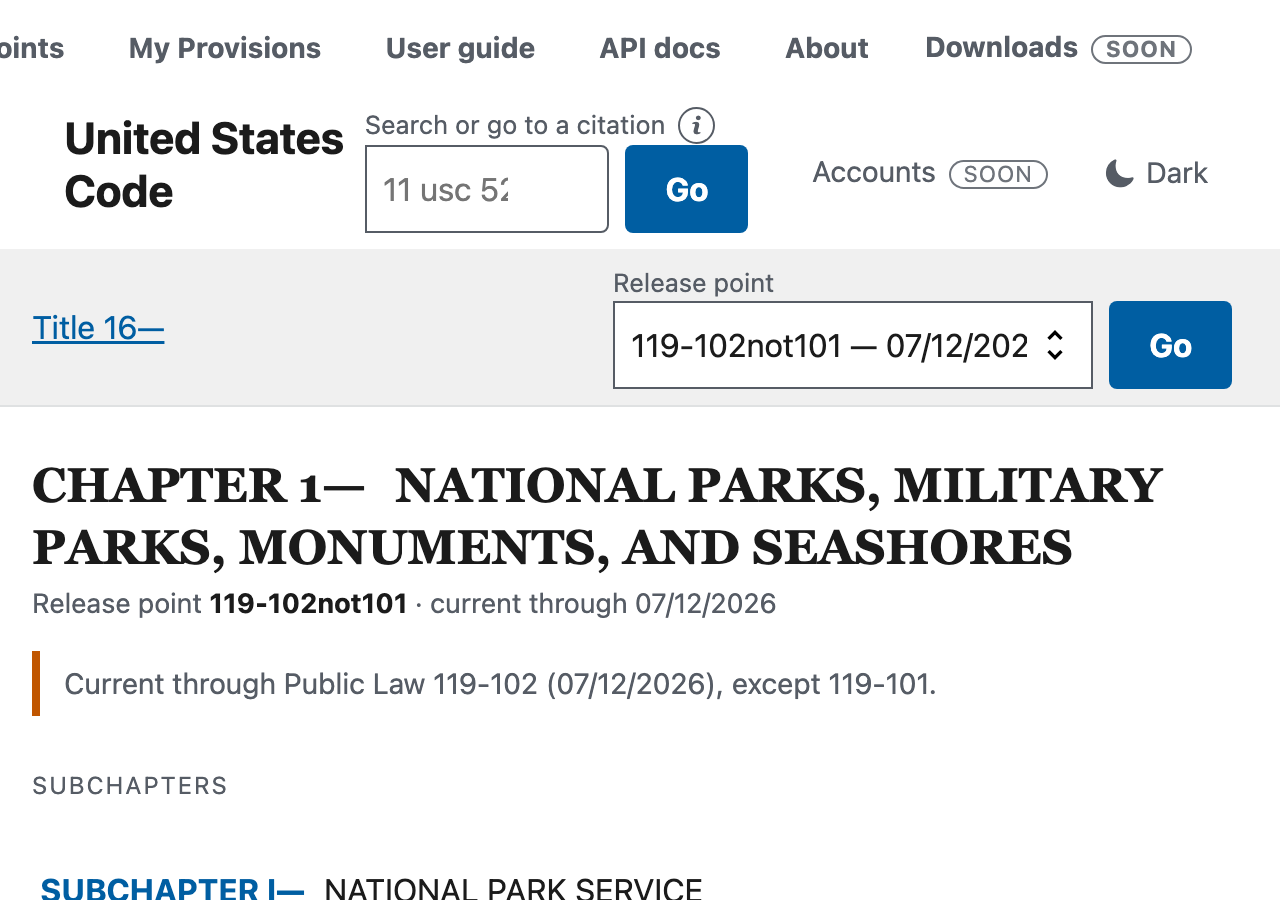
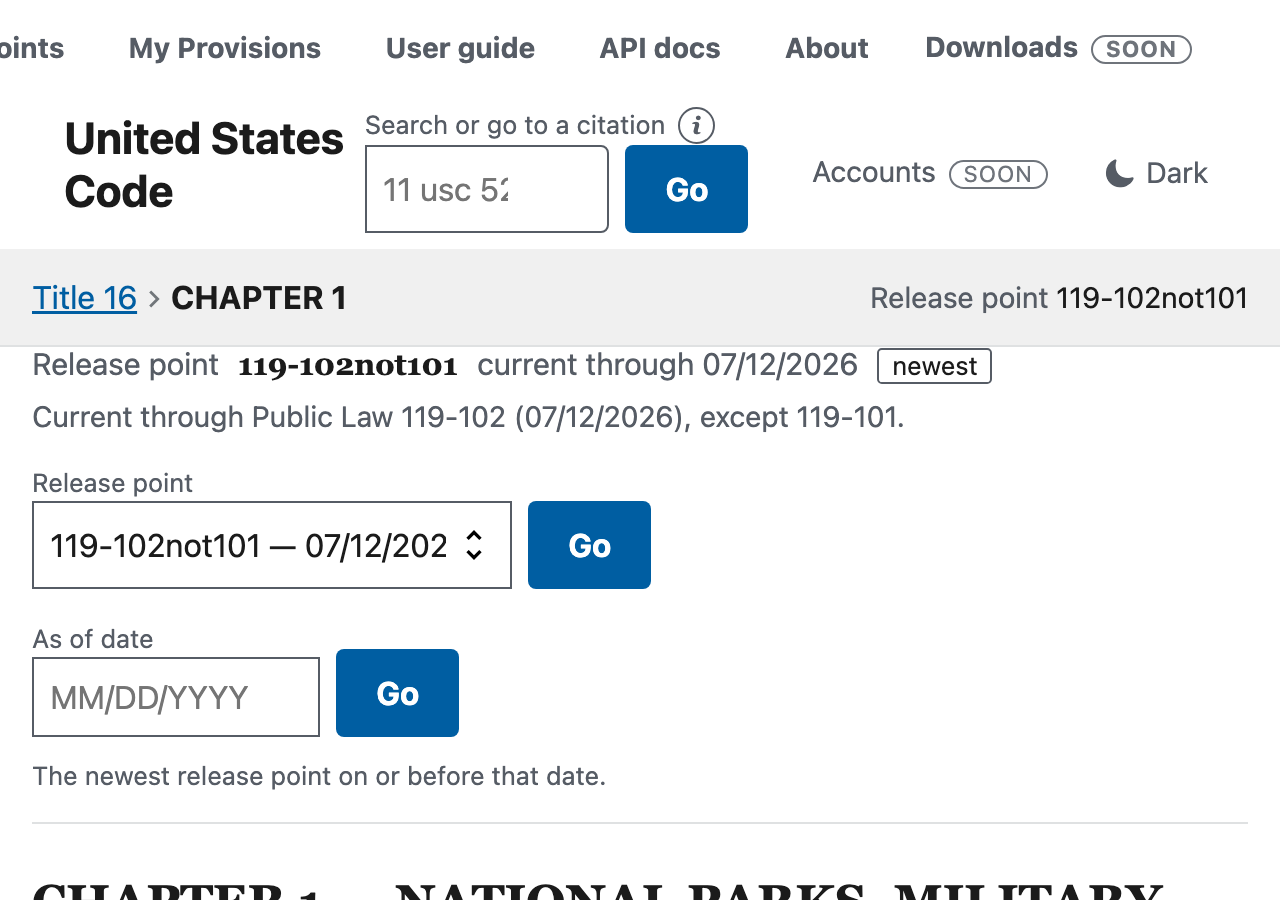
Give the guide a verb for a select, and re-point the release scenarios
`fill` cannot drive a `<select>`, and "switching release point keeps the
provision you were reading" is exactly the claim that has to be walkable now
that it is the fix rather than the bug. `select: { selector, value }` joins the
scenario vocabulary — validated like `fill`, narrated in `describeStep`, and run
through `selectOption`.

Three scenarios named `.doc-meta__rp` and `.caveat`, which were `Provenance`'s
classes. They name the release band's now.

`sticky.spec.ts` asserted `.picker` was pinned at desktop. It is not any more,
deliberately, so the assertion is on `.contextbar__rp` — the answer to "as of
when" rather than the means of changing it — and a new pair of tests holds the
headroom the move bought, so a future addition that eats it has to raise
`--sticky-h` on purpose.

One real bug, found by the scan rather than by me: the unlinked breadcrumb item
was the first text in that bar never set from a token, so it took USWDS's own
breadcrumb ink and failed `color-contrast` in dark theme on every reader page.
`docs/verification/a11y.json` is back to 8 route/rule pairs over 1,780 nodes,
which is the ADR-0039 baseline.

Changed region(s): [[0.0, 0.3111, 0.9688, 0.9022], [0.0, 0.9644, 0.9062, 1.0], [0.4688, 0.3111, 0.625, 0.3422]]

diff --git a/frontend/tests/e2e/sticky.spec.ts b/frontend/tests/e2e/sticky.spec.ts
@@ -170,7 +170,9 @@ test.describe("what sticks at each width", () => {
     await expect(page.locator(BAR)).toBeInViewport();
   });
 
-  test("a desktop keeps the navbar, the breadcrumbs and the bar", async ({ page }) => {
+  test("a desktop keeps the navbar, the breadcrumbs, the release point and the bar", async ({
+    page,
+  }) => {
     await page.setViewportSize({ width: 1280, height: 900 });
     await page.goto(SECTION);
     await page.evaluate(() => window.scrollTo(0, 2000));
@@ -178,7 +180,53 @@ test.describe("what sticks at each width", () => {
 
     await expect(page.locator(".usa-header")).toBeInViewport();
     await expect(page.locator(".usa-breadcrumb")).toBeInViewport();
-    await expect(page.locator(".picker")).toBeInViewport();
+    // The release point, not the switcher. `.picker` used to be here and moved
+    // out of the sticky stack in ADR-0044: the date field it grew did not fit
+    // in the headroom `--sticky-h` had left. What has to stay pinned is the
+    // *answer* to "as of when", and that is this.
+    await expect(page.locator(".contextbar__rp")).toBeInViewport();
+    await expect(page.locator(".contextbar__rp")).toContainText("119-102not101");
     await expect(page.locator(BAR)).toBeInViewport();
   });
+});
+
+test.describe("what moving the switcher out of the sticky stack bought", () => {
+  /**
+   * The reason `.picker` is no longer pinned (ADR-0044). `--sticky-h` is what
+   * `scroll-margin-top` spends, so every rem the chrome takes is a rem of the
+   * viewport a deep-linked provision starts below. The switcher grew a date
+   * field; rather than raise the token in a band the backlog already flags for
+   * carrying 19rem of chrome, the control moved down to the release facts.
+   *
+   * Asserted as headroom rather than as a number: the point is that the stack
+   * fits inside the token with room to spare, and a future addition that eats
+   * all of it should have to argue for raising the token deliberately.
+   */
+  for (const size of [
+    { name: "wrapping nav", width: 700, height: 900, headroom: 60 },
+    { name: "desktop", width: 1280, height: 900, headroom: 60 },
+  ]) {
+    test(`at ${size.name} (${size.width}px) the chrome leaves ${size.headroom}px spare`, async ({
+      page,
+    }) => {
+      await page.setViewportSize({ width: size.width, height: size.height });
+      await page.goto(SECTION);
+      await page.evaluate(() => window.scrollTo(0, 3000));
+      await page.waitForTimeout(300);
+
+      const spare = await page.evaluate(() => {
+        let bottom = 0;
+        for (const element of document.querySelectorAll("body *")) {
+          const style = getComputedStyle(element);
+          if (style.position !== "sticky" && style.position !== "fixed") continue;
+          const box = element.getBoundingClientRect();
+          if (box.height > 0 && box.top < 400 && box.bottom > bottom) bottom = box.bottom;
+        }
+        const token = getComputedStyle(document.documentElement).getPropertyValue("--sticky-h");
+        return parseFloat(token) * 16 - bottom;
+      });
+
+      expect(spare).toBeGreaterThanOrEqual(size.headroom);
+    });
+  }
 });

diff --git a/frontend/src/styles/site.scss b/frontend/src/styles/site.scss
@@ -642,11 +642,17 @@ main[id] {
 /* The trail's last item — the thing on screen. USWDS's breadcrumb package
  * carries no rule for `.usa-current`; it is a semantic marker there and nothing
  * else, so left alone the current node renders as unstyled body text among
- * underlined links. Weight rather than colour, because `--muted` against the
- * context bar is a contrast pair `scripts/contrast.py` would have to be told
- * about. */
+ * underlined links.
+ *
+ * The colour is not optional. Unlinked text in this bar had never existed
+ * before, so nothing had ever set it from a token: it took USWDS's own
+ * breadcrumb ink, which is derived from `$theme-breadcrumb-background-color` and
+ * assumes a light page. In dark theme that put it at serious `color-contrast` on
+ * every reader page, which is how ADR-0039's scan found it. `--ink` on `--panel`
+ * is a declared pair in `scripts/contrast.py`. */
 .usa-breadcrumb__list-item.usa-current {
   font-weight: 700;
+  color: var(--ink);
 }
 
 /* The release point, in the sticky bar, as text. `--muted` on `--panel` is a

diff --git a/frontend/tests/e2e/guide.spec.ts b/frontend/tests/e2e/guide.spec.ts
@@ -118,6 +118,13 @@ async function runStep(page: Page, step: Step, where: string): Promise<void> {
       await page.locator(step.value.selector).first().fill(step.value.value);
       return;
 
+    // `fill` cannot drive a `<select>`; the release switcher is one, and
+    // "switching release keeps the provision you were reading" is a claim the
+    // guide has to be able to walk (ADR-0044).
+    case "select":
+      await page.locator(step.value.selector).first().selectOption(step.value.value);
+      return;
+
     case "press":
       // Sent to the body rather than to a focused control: the keyboard
       // shortcuts this exercises are document-level listeners, and typing into

diff --git a/frontend/src/pages/guide/03-reading-at-a-point-in-time.md b/frontend/src/pages/guide/03-reading-at-a-point-in-time.md
@@ -2,17 +2,17 @@
 layout: ../../layouts/GuideLayout.astro
 title: Reading at a point in time
 order: 3
-summary: Release points, the two ways to ask for one, and the three facts every page tells you about the text you are looking at.
+summary: Release points, the three ways to ask for one, and the four facts every page tells you about the text you are looking at.
 covers:
   routes: ["/app/releases"]
-  adrs: [18, 36]
+  adrs: [18, 36, 44]
 ---
 
 The Code is republished in full at a **release point**, named for the last public law it includes —
 `119-99`, `118-22u1`, `119-102not101`. There are 382 of them, from July 2013 to July 2026, and this
 site holds the text at each one.
 
-## Two ways to ask
+## Three ways to ask
 
 **By release point**, when you know which one you want:
 
@@ -24,7 +24,7 @@ demoOrder: 50
 steps:
   - goto: /app/us/usc/t16/s45f?release=119-99
     caption: Add ?release= to any address to read it as it stood at that release point.
-  - expect: { selector: ".doc-meta__rp", contains: "119-99" }
+  - expect: { selector: ".releasebar__rp", contains: "119-99" }
     caption: The page names the release point it answered from — every page does.
 ```
 
@@ -39,15 +39,51 @@ demoOrder: 60
 steps:
   - goto: /app/us/usc/t16/s45f?date=07/12/2026
     caption: Or ask by date, and the site finds the release point in force then.
-  - expect: { selector: ".doc-meta__rp", contains: "119-102not101" }
+  - expect: { selector: ".releasebar__rp", contains: "119-102not101" }
     caption: 12 July 2026 resolves to release point 119-102not101.
 ```
 
-## Release Point information
+**By neither**, which is the default: an address with no `?release=` and no `?date=` answers with
+the newest release point this site holds, and follows new ones as they are loaded.
 
-Every page tells you three things about the text you are looking at:
+Every page that shows a provision carries all three as controls, under the section's address:
+a **Release point** menu whose first entry is *Newest — follows new releases*, and an **As of date**
+box. Both keep the provision you are reading. Switching release on
+`/app/us/usc/t16/s45f/c/5` returns `(c)(5)` at the release point you chose, not the top of § 45f.
+
+```scenario
+id: switch-keeps-provision
+title: Switching release point keeps the provision you were reading
+demo: true
+demoOrder: 65
+steps:
+  - goto: /app/us/usc/t16/s45f/c/5?release=119-99
+    caption: Reading subsection (c)(5) of § 45f, pinned to release point 119-99.
+  - select: { selector: "#release", value: "119-102not101" }
+    caption: Choose a different release point.
+  - click: "form:has(#release) button[type=submit]"
+    caption: The address keeps the provision — you move in time, not in the text.
+  - expect: { url: "/app/us/usc/t16/s45f/c/5?release=119-102not101" }
+    caption: Still (c)(5), now at release point 119-102not101.
+```
+
+## What every page tells you about the text
+
+Four facts, in one band above the section:
 
 **The release point and its date** — what you are looking at.
+
+**Whether it is the newest.** A page pinned to an older release point and a page showing the law in
+force are otherwise identical. The band says `newest`, or `not the newest` with a link to the
+current text.
+
+```scenario
+id: not-newest-is-marked
+title: An older release point is marked as such
+steps:
+  - goto: /app/us/usc/t16/s45f?release=119-99
+  - expect: { selector: ".releasebar__older", contains: "not the newest" }
+```
 
 **The caveat, on a `not` release point.** A label like `119-102not101` means *current through Public
 Law 119-102, except 119-101*. The date alone would tell you the text is current through 12 July
@@ -58,12 +94,16 @@ id: not-label-caveat
 title: A "not" release point says which law it is missing
 steps:
   - goto: /app/us/usc/t16/s45f?release=119-102not101
-  - expect: { selector: ".caveat", contains: "except" }
+  - expect: { selector: ".releasebar__caveat", contains: "except" }
 ```
 
 **Where the answer came from.** Most release points republish a title without changing it, so this
 site does not store multiple copies of an unchanged section. If you ask for a release point that was
 not separately ingested, the answer comes from the newest one at or before it, and **the page tells you that it did**.
+
+The [version history](/app/versions/us/usc/t16/s45f) and [redline](/app/diff/us/usc/t16/s45f?from=119-99&to=119-102not101)
+pages carry no release band. The first spans every release point at which the section changed and
+the second is about two of them, so neither is reading one.
 
 ## Every release point, and how current the site is
 
